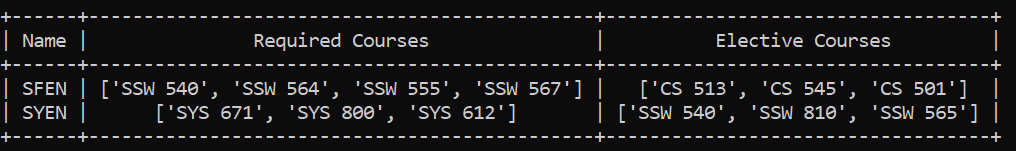
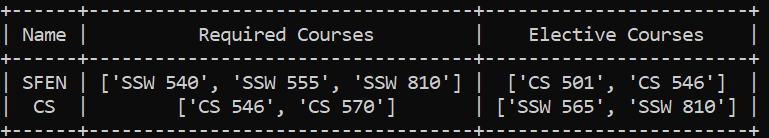
HW 11 changes

diff --git a/Student_Repository_Kishan_Huliyar_Jagadeesh.py b/Student_Repository_Kishan_Huliyar_Jagadeesh.py
@@ -4,6 +4,7 @@ from collections import defaultdict, OrderedDict
 from typing import Any, Dict, Iterator, List, Tuple
 from prettytable import PrettyTable
 import os
+import sqlite3
 
 class Student:
     """ Class representing a student in University """
@@ -138,6 +139,19 @@ class University:
         for major in self.majors.values():
             pt.add_row(major.table_row())
         print(pt)
+    
+    def student_grades_table_db(self, db_path):
+        """Student- grade table from database"""
+        db_con = sqlite3.connect(db_path)
+    
+        p = PrettyTable(
+            field_names=[ 'Name','CWID', 'Course', 'Grade', 'Instructor'])
+        
+        q = """select s.Name,s.CWID,g.Grade,g.Course,i.Name from HW11_grades as g left join HW11_students as s on s.CWID = g.Student_CWID left join HW11_instructors as i on i.CWID=g.Instructor_CWID  order by s.Name asc;"""
+        for row in db_con.execute(q):
+            p.add_row(row)
+        print("Student Grade summary")
+        print(p)
 
 
 class Universities:
@@ -203,13 +217,13 @@ class Universities:
                     
         for file in os.listdir(directory):
             if file.endswith("students.txt"):
-                for cwid, name, major, line_number in self.file_reader(os.path.join(directory,file), 3, self.process_errors,";",True):
+                for cwid, name, major, line_number in self.file_reader(os.path.join(directory,file), 3, self.process_errors,"\t",True):
                     if cwid in university.students:
                         self.process_errors.append(f"Error in Student.txt:{line_number} - Student with cwid {cwid} already exist")
                         continue
                     university.students[cwid] = Student(cwid,name,university.majors[major],university)
             elif file.endswith("instructors.txt"):
-                for cwid, name, dept, line_number in self.file_reader(os.path.join(directory,file), 3, self.process_errors, "|", True):
+                for cwid, name, dept, line_number in self.file_reader(os.path.join(directory,file), 3, self.process_errors, "\t", True):
                     if cwid in university.instructors:
                         self.process_errors.append(f"Error in instrtuctors.txt:{line_number} - Instructor with cwid {cwid} already exist")
                         continue
@@ -217,7 +231,7 @@ class Universities:
 
         for file in os.listdir(directory):
             if file.endswith("grades.txt"):
-                for student_cwid, course, grade, instructor_cwid,line_number in self.file_reader(os.path.join(directory,file), 4, self.process_errors, "|", True):
+                for student_cwid, course, grade, instructor_cwid,line_number in self.file_reader(os.path.join(directory,file), 4, self.process_errors, "\t", True):
                     
                     if instructor_cwid not in university.instructors:
                         self.process_errors.append(f"Error in grades.txt:{line_number} - Instructor with cwid {instructor_cwid} doesnot exist")
@@ -239,7 +253,7 @@ class Universities:
         new_university = University(university_name)
         self.__process_directory(directory, new_university)
         self.universities[university_name] = new_university
-        
+    
 
 if __name__ == "__main__":
     univs = Universities.get_instance()
@@ -249,6 +263,7 @@ if __name__ == "__main__":
     stevens.major_table()
     stevens.student_table()
     stevens.instructor_table()
+    stevens.student_grades_table_db('C:\Stevens\Sem 3\SSW - 810\Assignments\git\Student-Repository\HW11_startup.db')
 
     # univs.add_university("NYU","C:\Stevens\Sem 3\SSW - 810\Assignments\HW09_kishan_Huliyar_jagadeesh\Stevens")
     # nyu = univs.universities["NYU"]

diff --git a/Student_Repository_Test_Kishan_Huliyar_Jagadeesh.py b/Student_Repository_Test_Kishan_Huliyar_Jagadeesh.py
@@ -1,5 +1,6 @@
 """ Test class for HW09 """
 
+import sqlite3
 import unittest
 from Student_Repository_Kishan_Huliyar_Jagadeesh import Universities, University
 
@@ -12,18 +13,25 @@ class HW09Test(unittest.TestCase):
         univs.add_university("Stevens","C:\Stevens\Sem 3\SSW - 810\Assignments\git\Student-Repository\Stevens")
         stevens : University = univs.universities["Stevens"]
 
-        self.assertEqual(stevens.students["10103"].name,"Baldwin, C")
-        self.assertEqual(stevens.students["11788"].major.name,"SYEN")
-        self.assertEqual(stevens.students["11461"].gpa,3.9166666666666665)
-        self.assertEqual(stevens.students["10172"].get_remaining_req_courses(),['SSW 540', 'SSW 564'])
-        self.assertEqual(stevens.students["11658"].get_remaining_ele_courses(),['SSW 540', 'SSW 565', 'SSW 810'])
-        self.assertEqual(stevens.students["10115"].get_completed_courses(),['CS 545', 'SSW 564', 'SSW 567', 'SSW 687'])
+        self.assertEqual(stevens.students["10103"].name,"Jobs, S")
+        self.assertEqual(stevens.students["11714"].major.name,"CS")
+        self.assertEqual(stevens.students["10183"].gpa,4.0)
+        self.assertEqual(stevens.students["10103"].get_remaining_req_courses(),['SSW 540', 'SSW 555'])
+        self.assertEqual(stevens.students["10115"].get_remaining_ele_courses(),['CS 501', 'CS 546'])
+        self.assertEqual(stevens.students["10115"].get_completed_courses(),['SSW 810'])
 
-        self.assertEqual(stevens.instructors["98765"].name,"Einstein, A")
-        self.assertEqual(stevens.instructors["98760"].department,"SYEN")
+        self.assertEqual(stevens.instructors["98764"].name,"Cohen, R")
+        self.assertEqual(stevens.instructors["98762"].department,"CS")
 
-        self.assertEqual(len(stevens.students["10115"].courses),4)
-        self.assertEqual(sorted([key for key in stevens.students["10115"].courses]),['CS 545', 'SSW 564', 'SSW 567', 'SSW 687'])
+        self.assertEqual(len(stevens.students["10115"].courses),2)
+        self.assertEqual(sorted([key for key in stevens.students["11714"].courses]),['CS 546', 'CS 570', 'SSW 810'])
+
+        db_con = sqlite3.connect('C:\Stevens\Sem 3\SSW - 810\Assignments\git\Student-Repository\HW11_startup.db')
+        q : str = """ select instructors.CWID,instructors.Name,instructors.Dept,grades.Course,count(grades.Course) from HW11_Instructors instructors join HW11_Grades grades on CWID = Instructor_CWID group by Grade;"""
+        instructors_db = [row for row in db_con.execute(q)]
+        expected_instructors_db = [('98763', 'Rowland, J', 'SFEN', 'SSW 810', 4),( '98763', 'Rowland, J', 'SFEN', 'SSW 810', 2),( '98762', 'Hawking, S', 'CS', 'CS 501', 1),( '98763', 'Rowland, J', 'SFEN', 'SSW 810', 1),( '98762', 'Hawking, S', 'CS', 'CS 546', 1)]
+        self.assertEqual(instructors_db, expected_instructors_db)
+        
 
 if __name__ == "__main__":
     unittest.main(verbosity=0)

diff --git a/README.md b/README.md
@@ -15,3 +15,7 @@ repository for SSW-810 assignments
 ### Output table for Instructors
 
 ![Majors](/img/instructors.PNG)
+
+### Output table for grades from the database
+
+![Majors](/img/grades_Db.PNG)
